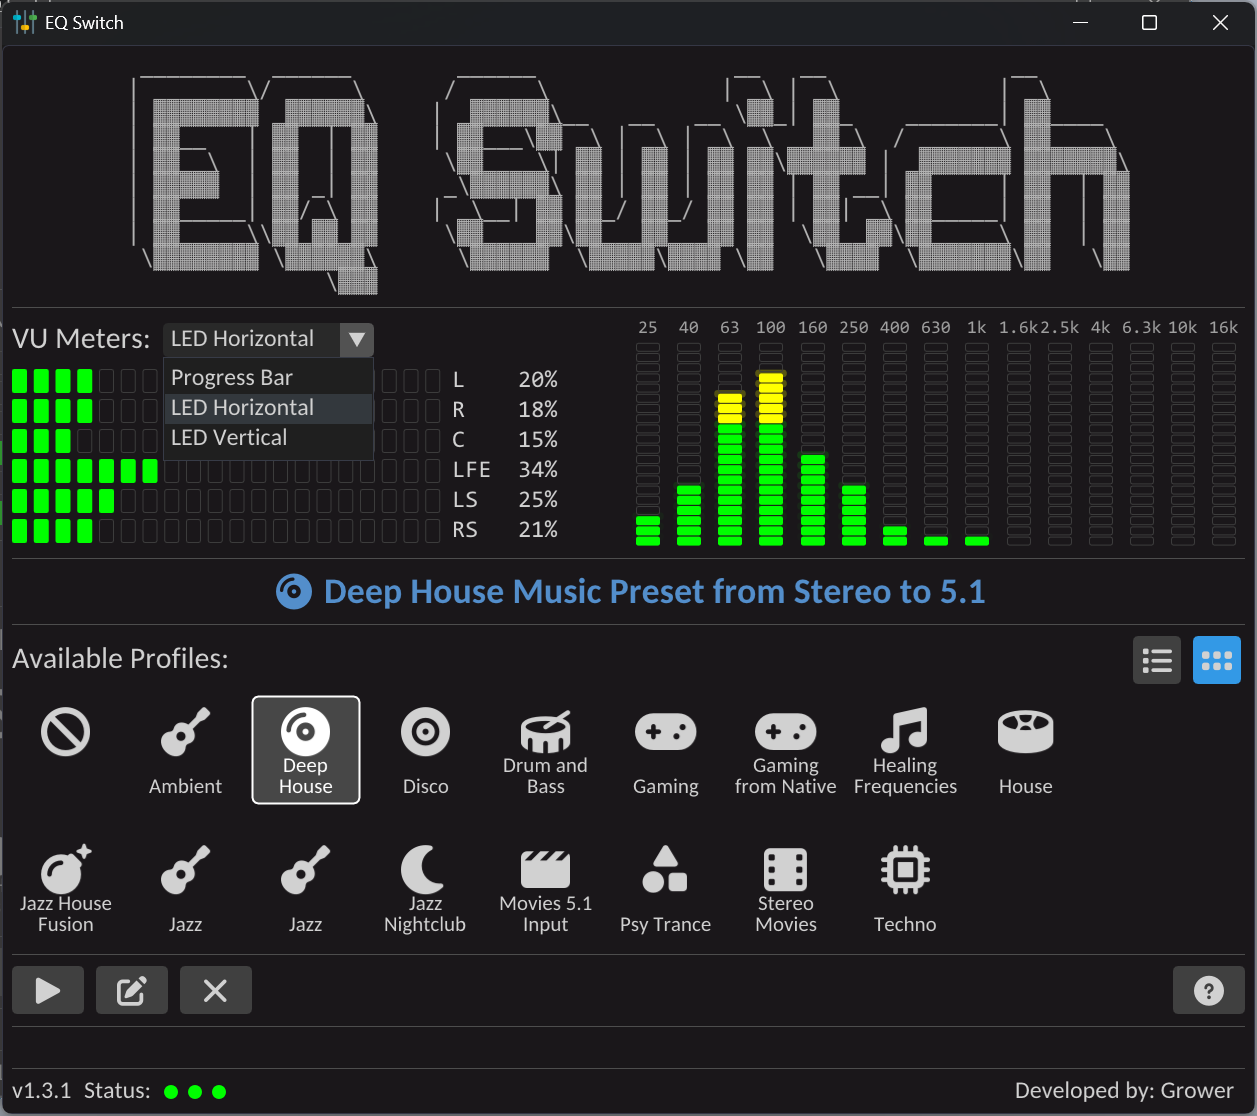
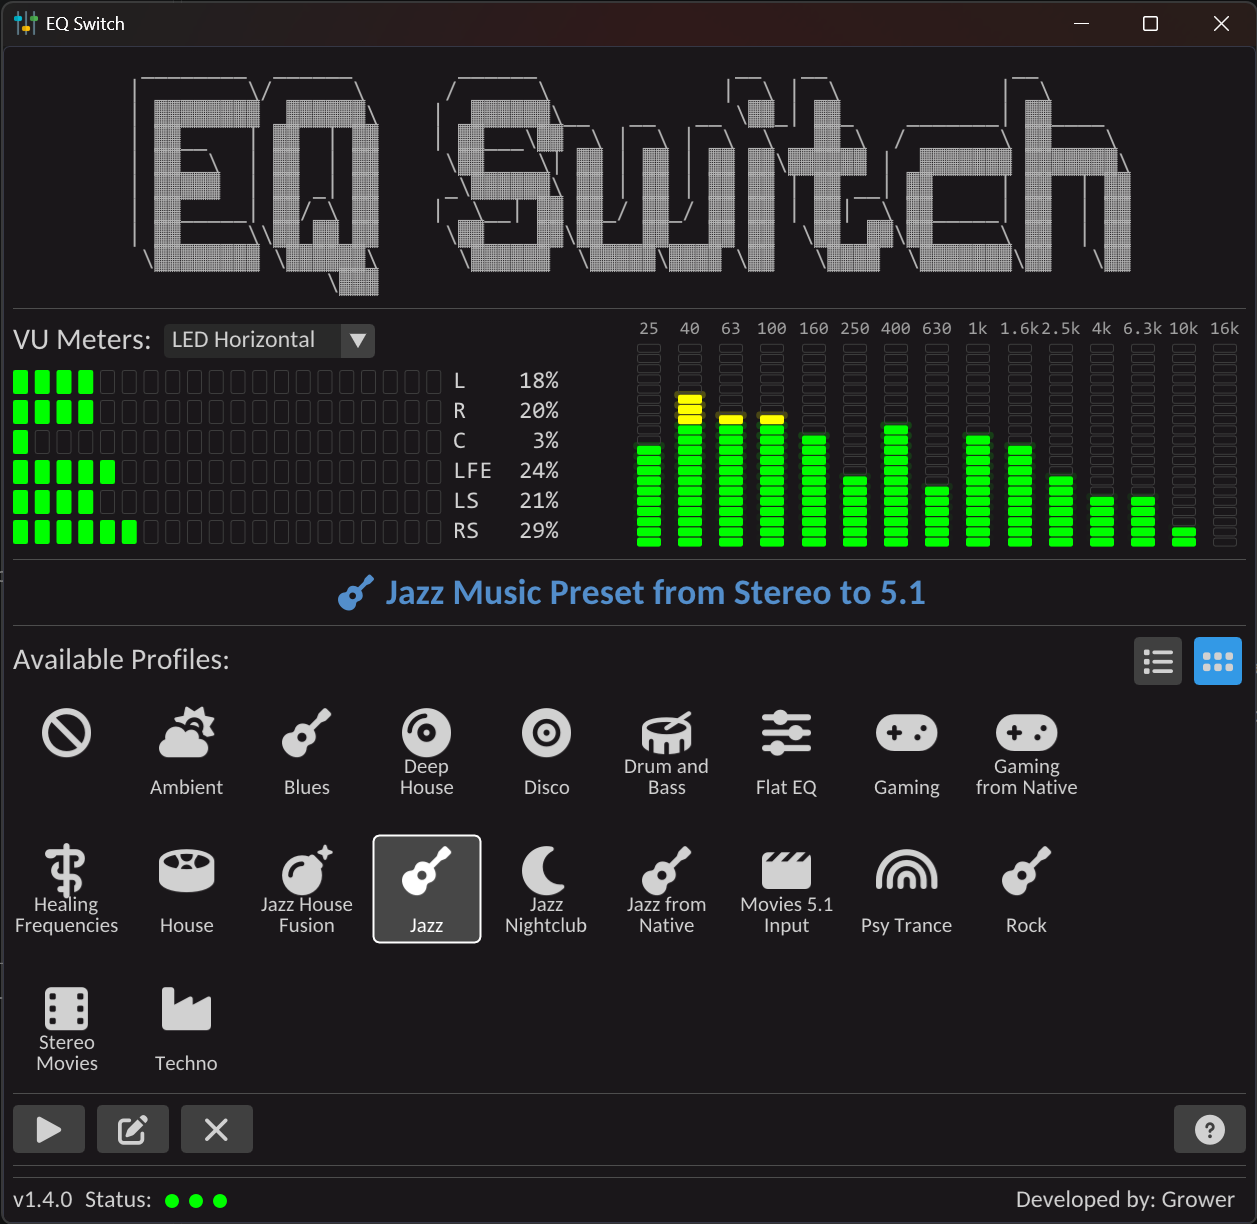
fix(footer): update version text to v1.4.0

diff --git a/src/gui/_partials/Footer.cpp b/src/gui/_partials/Footer.cpp
@@ -13,7 +13,7 @@ void Footer(EqualizerAPOManager &apoManager)
     
     // Draw footer
     float contentWidth = ImGui::GetContentRegionAvail().x - 0.0f; // Leave some space for padding
-    const char *versionText = "v1.3.1";
+    const char *versionText = "v1.4.0";
     const char *authorText = "Developed by: Grower";
 
     ImGui::Separator();
